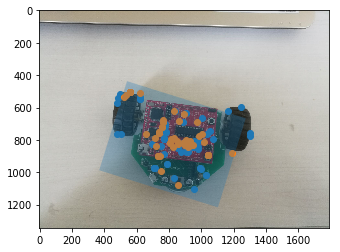
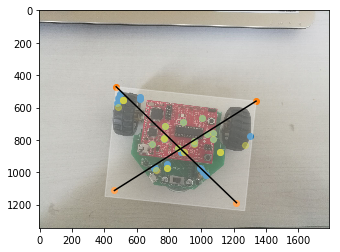
Use findHomography in track.py

Changed region(s): [[0.2941, 0.3056, 0.7647, 0.8333]]

diff --git a/car-tracking/track.py b/car-tracking/track.py
@@ -12,9 +12,11 @@ import matplotlib.patches as patches
 import cv2 as cv
 import types
 
+import geometry as gm
 import ultility
 
-detector_type = 'SIFT'  # or 'SURF'
+detector_type = 'SIFT'  # 'SIFT' or 'SURF'
+num_samples = 32
 
 
 class Descriptor:
@@ -22,13 +24,13 @@ class Descriptor:
         self.img = image
         self.kp, self.des = detector.detectAndCompute(image, None)
     def show(self, item=None):
-        points = np.array(tuple(p.pt for p in self.kp))
         ultility.show(self.img)
-        #plt.scatter(points[:,0], points[:,1])
         if item:
             points = np.array(tuple(p.pt for p in self[item]))
             plt.scatter(points[:,0], points[:,1])
-        #plt.show()
+        else:
+            points = np.array(tuple(p.pt for p in self.kp))
+            plt.scatter(points[:,0], points[:,1])
     def __getitem__(self, item):
         if isinstance(item, slice):
             return self.kp[item]
@@ -37,95 +39,55 @@ class Descriptor:
         return self.kp[item]
 
 
-def regression(X_batch, Y_batch):
-    print()
-    N = X_batch.shape[0]
-    learning_rate = 1e-6
-    s, x, y, a = 1, 600, 800, np.pi
-    indices = np.arange(N)
-    for t in range(1000):
-        stat = np.zeros(2)
-        np.random.shuffle(indices)
-        for i in range(N):
-            X = X_batch[indices[i]]
-            Y = Y_batch[indices[i]]
-            
-            atan = np.arctan2(X[1], X[0])
-            norm = np.linalg.norm(X)
-            sin = norm*np.sin(atan+a)
-            cos = norm*np.cos(atan+a)
-            Yhat = np.array((s*cos+x, s*sin+y))
-            L = Y-Yhat
-            stat += L
-            
-            ds = L*np.array((cos, sin))
-            dx = L*np.array((1, 0))
-            dy = L*np.array((0, 1))
-            da = L*s*np.array((-sin, cos))
-            
-            s += learning_rate*np.sum(ds)
-            x += learning_rate*500*np.sum(dx) - 5e-5*x
-            y += learning_rate*500*np.sum(dy) - 5e-5*y
-            a += learning_rate*np.sum(da)
-            
-            a %= np.pi*2
-            
-        if t%100 == 0:
-            print(np.linalg.norm(stat))
-    
-    return s, x, y, a
-
-def predict(x0, y0, s, x, y, a):
-    atan = np.arctan2(y0, x0)
-    norm = (x0**2+y0**2)**0.5
-    return s*norm*np.cos(atan+a)+x, s*norm*np.sin(atan+a)+y
-
 def main():
     if detector_type == 'SIFT':
         detector = cv.xfeatures2d.SIFT_create()
     elif detector_type == 'SURF':
         detector = cv.xfeatures2d.SURF_create()
     
-    tmp = cv.imread('templates/car.jpg')
-    tmp = cv.resize(tmp, (tmp.shape[1]//2, tmp.shape[0]//2))
-    template = Descriptor(tmp, detector)
+    template = Descriptor(cv.imread('templates/car.jpg'), detector)
     image = Descriptor(cv.imread('IMG_0.jpg'), detector)
+    
+    h, w, _ = template.img.shape
     
     bf = cv.BFMatcher()
     matches = bf.match(image.des, template.des)
     matches.sort(key=lambda x:x.distance)
     
-    #template.show(m.trainIdx for m in matches[:16])
-    #plt.show()
+    best_matches = matches[:num_samples]
+    
     ax = plt.figure().add_subplot(111)
-    image.show(m.queryIdx for m in matches[:16])
+    image.show(m.queryIdx for m in best_matches)
     
-    for m in matches[:16]:
-        print(image[m.queryIdx].angle - template[m.trainIdx].angle)
+    homography = cv.findHomography(np.array([template[m.trainIdx].pt for m in best_matches]),
+                                   np.array([image[m.queryIdx].pt for m in best_matches]),
+                                   cv.RANSAC, 3)[0]
     
-    s, x, y, a = regression(
-        np.array([template[m.trainIdx].pt for m in matches[:16]]),
-        np.array([image[m.queryIdx].pt for m in matches[:16]])
-    )
+    results = cv.perspectiveTransform(
+            np.array([[template[m.trainIdx].pt for m in best_matches]]),
+            homography)[0]
+    plt.scatter(results[:,0], results[:,1], color='y', alpha=0.5)
     
-    print(s, x, y, a)
+    corners = cv.perspectiveTransform(np.array([[(0,0), (w,h), (0,h), (w,0)]],
+                                               dtype='float32'), homography)[0]
+    plt.scatter(corners[:,0], corners[:,1])
+    plt.plot(corners[:2,0], corners[:2,1], 'k-')
+    plt.plot(corners[2:,0], corners[2:,1], 'k-')
     
-    x0, y0 = tuple(template[matches[0].trainIdx].pt)
-    x1, y1 = tuple(image[matches[0].queryIdx].pt)
-    print(x1, y1)
-    print(predict(x0, y0, s, x, y, a))
+    corners = [gm.Point(c) for c in corners]
+    center = gm.get_intersection(gm.determine_linear_equation(*corners[:2]),
+                                 gm.determine_linear_equation(*corners[2:]))
+    w = corners[0]-corners[3]
+    baseline = gm.determine_linear_equation(*corners[::3])
+    h = gm.get_distance(baseline, center)*2
+    dirline = gm.get_perpendicular_line(baseline, center)
+    a = np.arctan2(dirline[0], -dirline[1])
     
     ax.add_patch(patches.Rectangle(
-        predict(0, 0, s, x, y, a),
-        template.img.shape[1]*s,
-        template.img.shape[0]*s,
-        a*180/np.pi,
-        alpha=0.3
+        corners[3].to_tuple(),
+        h, w, a*180/np.pi,
+        color='w', alpha=0.3
     ))
-    plt.scatter(*predict(0, 0, s, x, y, a))
-    plt.scatter(*predict(0, template.img.shape[0], s, x, y, a))
-    plt.scatter(*predict(template.img.shape[1], 0, s, x, y, a))
-    plt.scatter(*predict(template.img.shape[1], template.img.shape[0], s, x, y, a))
     
 
 if __name__ == '__main__':

diff --git a/README.md b/README.md
@@ -108,9 +108,9 @@ OpenCV没有提供现成函数，方法请参考[c++opencv中线条细化算法]
 上图中从左至右第三幅是霍夫变换的结果，图中同时出现了重合线段、断线、孤立线段三种情况，这在下一步中被一一排除。
 
 ## 检测小车
-使用`cv.xfeatures2d.SIFT_create()`提取小车图像模板和采集到的图像的SIFT描述符，使用`cv.BFMatcher()`暴力匹配两幅图片的描述符，最后用最匹配的若干描述符来回归模板到图像的仿射变换，结果如下：  
+使用`cv.xfeatures2d.SIFT_create()`提取小车图像模板和采集到的图像的SIFT描述符（黄色点、蓝色点），使用`cv.BFMatcher()`暴力匹配两幅图片的描述符，用最匹配的若干描述符（32个）输入`cv.findHomography()`来生成透视变换矩阵$H$，用$H$由`cv.perspectiveTransform()`得到模板图像的四个角点到检测图像的映射（橙色点），最后以对角线（黑色线）的交点作为小车中心，小车中心到车轮处两角点连线的垂线作为小车的角度，并以此画矩形（透明白色矩形），结果如下：  
 ![car detection](/shot/Figure_6.png)
 
-看上去这个结果并不是很好，有待进一步改进。
+这个结果还算令人满意了，但是稳定性怎么样呢？
 
 ## 接下来是什么？
